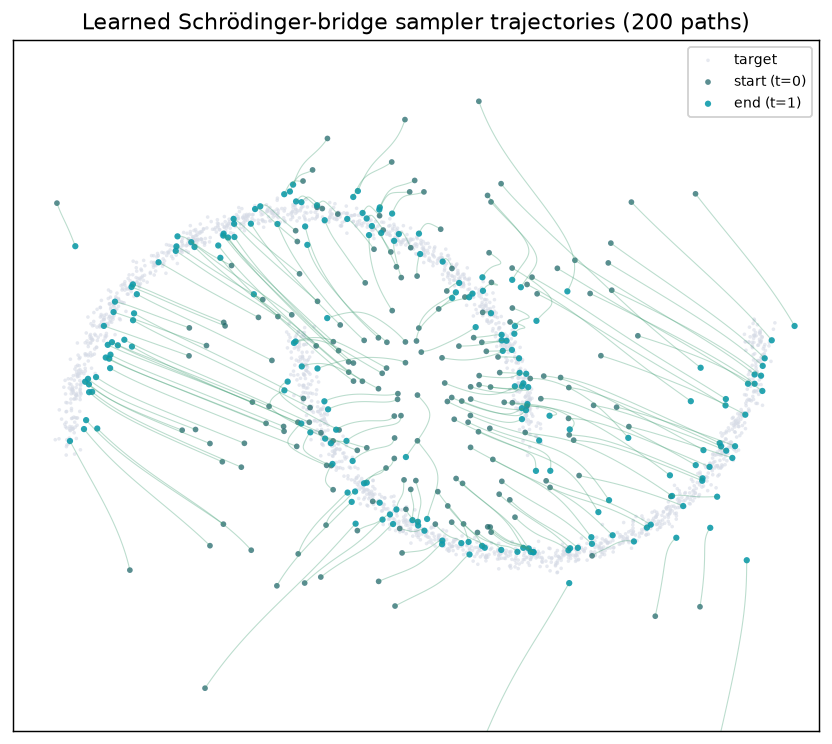
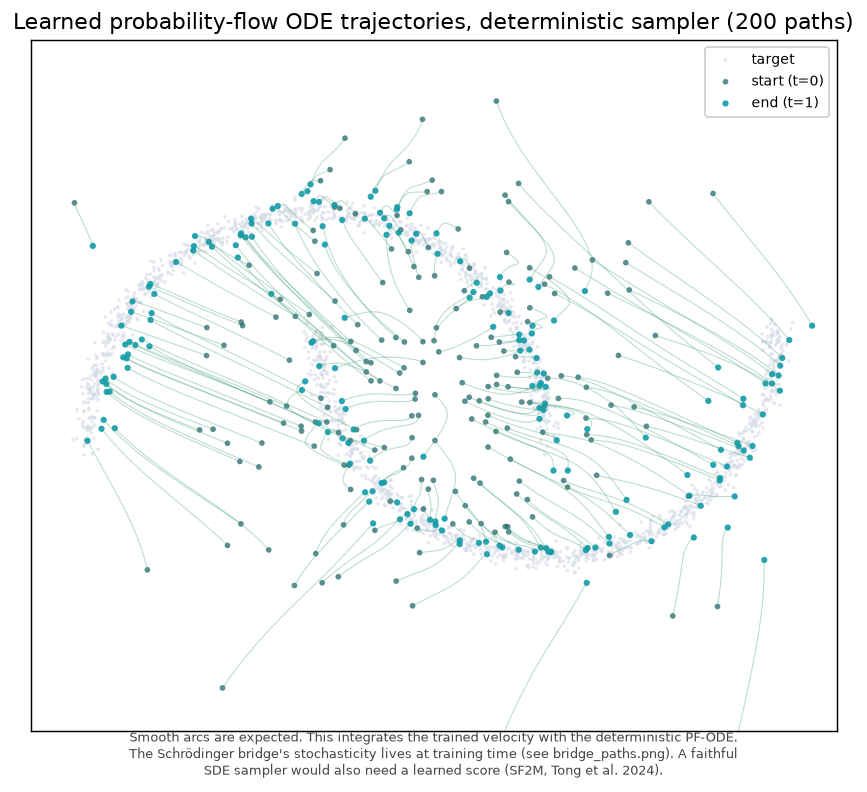
Refresh SB trajectories figure and caption for deterministic PF-ODE
Regenerate sb_trajectories.png with the updated title and caption, and update the examples.md alt text to match the deterministic probability-flow ODE framing.

diff --git a/docs/examples.md b/docs/examples.md
@@ -310,7 +310,7 @@ to regress against, without changing the deterministic ODE it produces.
 
 ![Schrödinger-bridge trained sampler snapshots](assets/schrodinger-bridge/sb_snapshots.png)
 
-![Schrödinger-bridge trained sampler trajectories](assets/schrodinger-bridge/sb_trajectories.png)
+![Learned probability-flow ODE trajectories, deterministic sampler](assets/schrodinger-bridge/sb_trajectories.png)
 
 **Animated sampling.** The learned field integrates noise onto the two-moons
 target from `t=0` to `t=1`, same as the flow-matching showcase, but the
